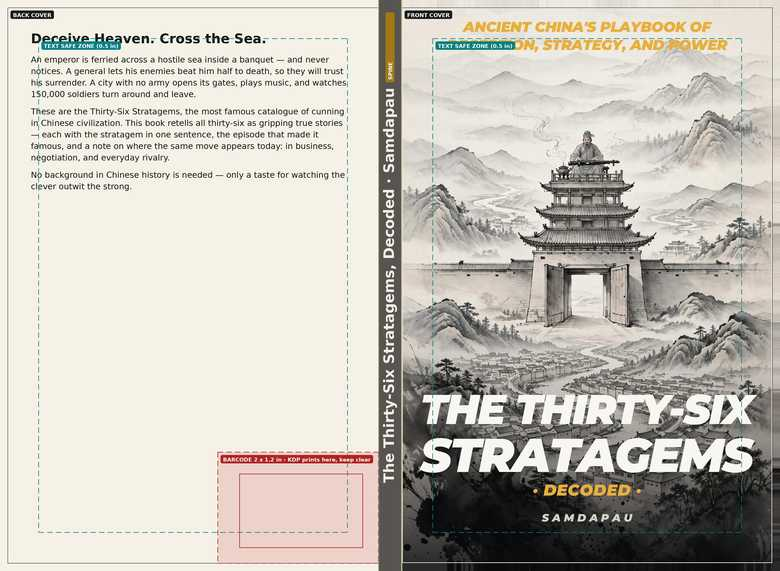
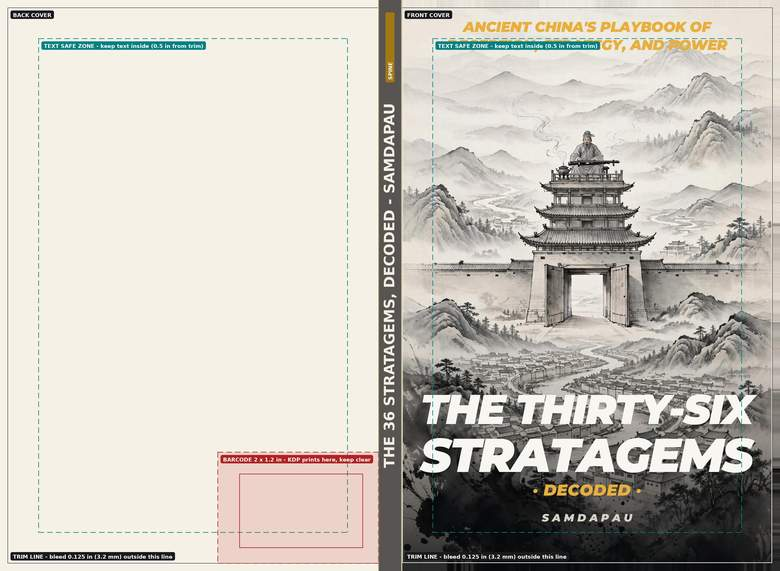
Add files via upload

diff --git a/kdp-wrap-generator/wrap.py b/kdp-wrap-generator/wrap.py
@@ -237,8 +237,12 @@ def draw_preview(wrap_img, g, out_path):
         s = int(SAFE_IN * DPI)
         dashed_rect(d, [tx0 + s, ty0 + s, tx1 - s, ty1 - s], teal)
         tag(d, (tx0 + 14, ty0 + 14), name, f_tag, ink)
-        tag(d, (tx0 + s + 14, ty0 + s + 14), "TEXT SAFE ZONE (0.5 in)",
+        tag(d, (tx0 + s + 14, ty0 + s + 14),
+            "TEXT SAFE ZONE - keep text inside (0.5 in from trim)",
             f_tag, teal)
+        tag(d, (tx0 + 14, ty1 - 54),
+            "TRIM LINE - bleed 0.125 in (3.2 mm) outside this line",
+            f_tag, ink)
 
     # spine folds
     sx0, sx1 = g["spine_x"], g["spine_x"] + g["spine_px"]
